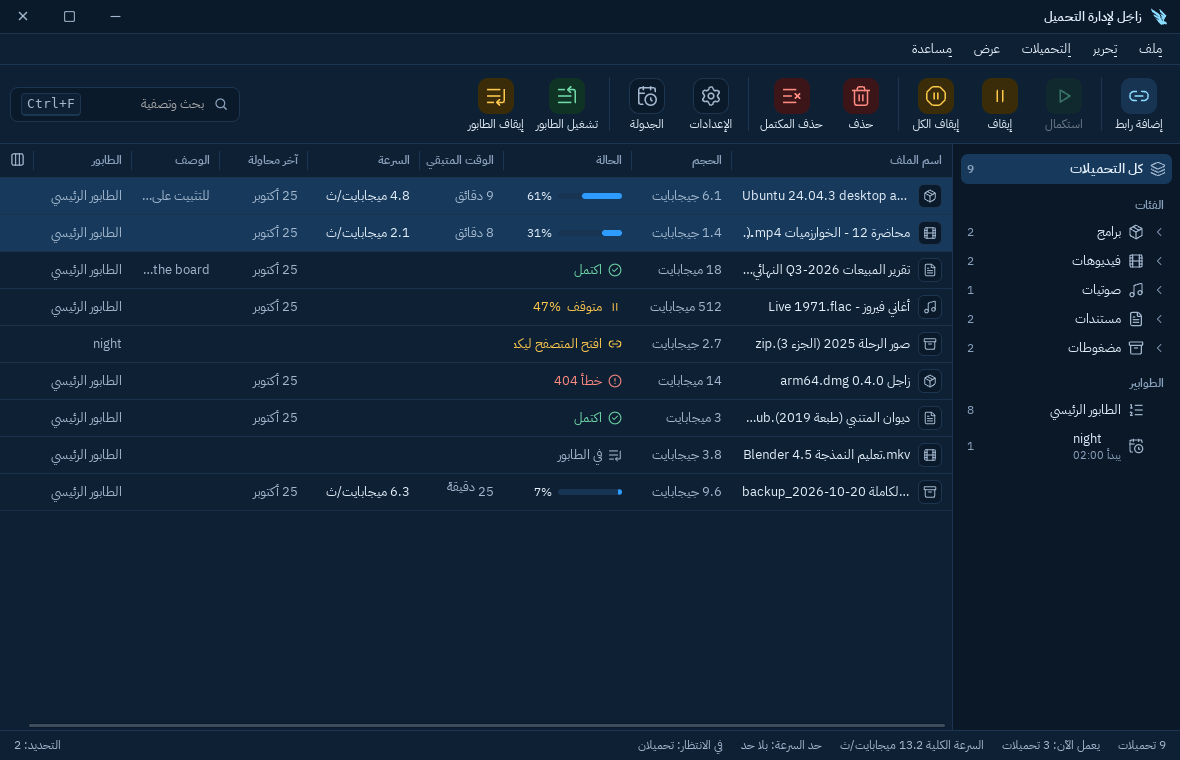
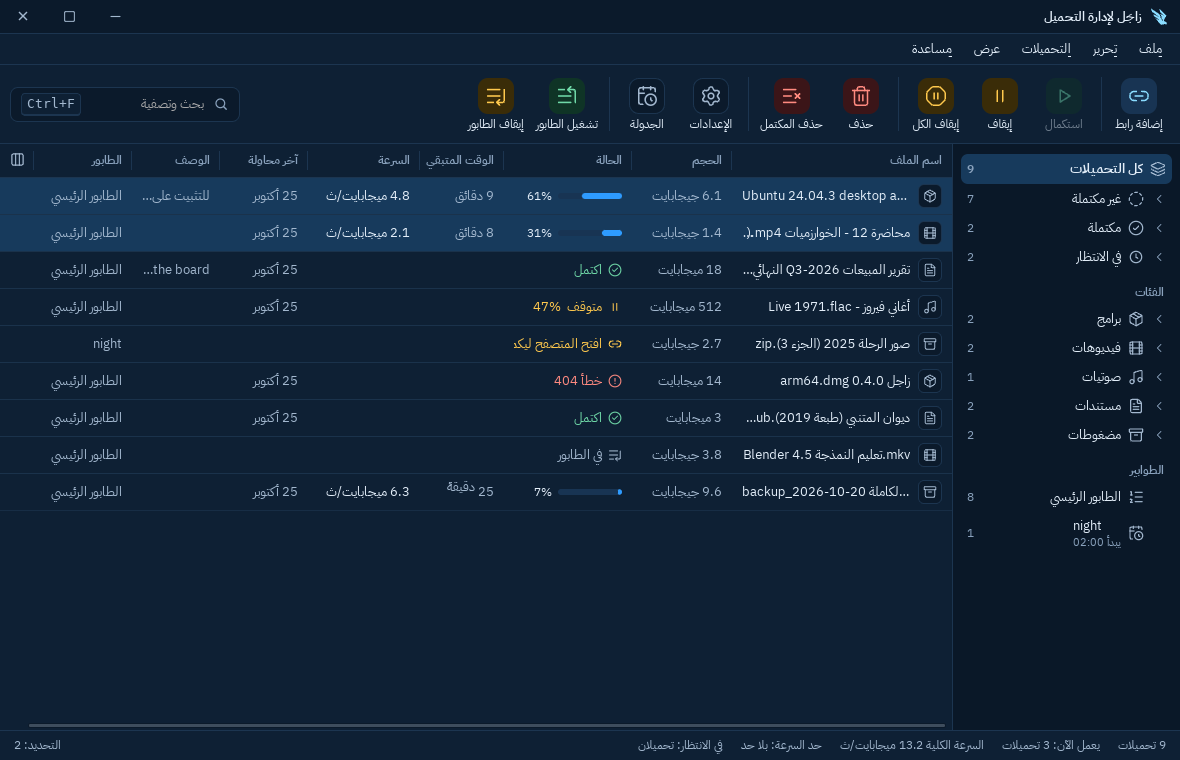
docs(release): Zajil 1.0.0 again, after the first draft was tried (#282)

Changed region(s): [[0.8847, 0.2421, 0.9763, 0.7263]]

diff --git a/docs/releases/v1.0.0.md b/docs/releases/v1.0.0.md
@@ -8,7 +8,7 @@
 
 ## صور
 
-صور حقيقية من الـ CI (بيانات تجريبية فقط):
+صور حقيقية من الـ CI، وصورة زر الفيديو من Chrome حقيقي بسكريبت الإضافة نفسه على صفحة تجريبية محلية (بيانات تجريبية فقط):
 
 | النافذة الرئيسية (فاتح) | النافذة الرئيسية (داكن) |
 |---|---|
@@ -16,7 +16,7 @@
 | **نافذة التقدم بالأجزاء** | **نافذة «جودة الفيديو»** |
 | ![نافذة التقدم: الأجزاء والاتصالات](https://raw.githubusercontent.com/motalim-ai/zajil-download-manager/v1.0.0/docs/screenshots/progress-ar.png) | ![نافذة جودة الفيديو: الجودات والحجم واسم الملف](https://raw.githubusercontent.com/motalim-ai/zajil-download-manager/v1.0.0/docs/screenshots/video-quality-ar.png) |
 | **«معلومات ملف التحميل»** | **زر «نزّل الفيديو» فوق الفيديو (الإضافة)** |
-| ![نافذة معلومات ملف التحميل: الاسم والحجم والمجلد](https://raw.githubusercontent.com/motalim-ai/zajil-download-manager/v1.0.0/docs/screenshots/file-info-ar.png) | ![زر نزّل الفيديو فوق فيديو تجريبي في المتصفح](https://raw.githubusercontent.com/motalim-ai/zajil-download-manager/v1.0.0/docs/screenshots/video-button-ar.png) |
+| ![نافذة معلومات ملف التحميل الصغيرة: الرابط والفئة والاسم والمجلد](https://raw.githubusercontent.com/motalim-ai/zajil-download-manager/v1.0.0/docs/screenshots/file-info-ar.png) | ![زر نزّل الفيديو أعلى يمين فيديو تجريبي في المتصفح، ومعه علامة زاجِل](https://raw.githubusercontent.com/motalim-ai/zajil-download-manager/v1.0.0/docs/screenshots/video-button-ar.png) |
 | **«تحميل الموقع»** | **«تحميل بالجملة»** |
 | ![نافذة تحميل الموقع: الحدود، والملفات التي وُجدت قبل إضافتها، والمجلد](https://raw.githubusercontent.com/motalim-ai/zajil-download-manager/v1.0.0/docs/screenshots/grab-ar.png) | ![نافذة التحميل بالجملة: النمط والروابط قبل إضافتها](https://raw.githubusercontent.com/motalim-ai/zajil-download-manager/v1.0.0/docs/screenshots/batch-ar.png) |
 
@@ -24,19 +24,25 @@
 
 - **التحميل:** حتى 32 اتصالًا للملف الواحد، وتقسيم أبطأ جزء حين يفرغ اتصال، والاستكمال بعد الانقطاع أو إغلاق البرنامج، وإعادة المحاولة بانتظار يكبر، واحترام `Retry-After`. والإيقاف فوري، ولا يضيع منه شيء. وHTTPS بالتحقق الكامل من الشهادات دائمًا.
 - **الواجهة بالعربية أولًا** (ومعها الإنجليزية)، من اليمين إلى اليسار، بالوضع الفاتح والداكن:
-  - نافذة رئيسية فيها شجرة جانبية (الفئات والطوابير)، وجدول بأعمدة تُخفى وتُظهر ويتغير ترتيبها، وقائمة الزر الأيمن، وبحث، واختصارات لكل زر.
-  - نافذة «إضافة رابط»، ثم «معلومات ملف التحميل» بأزرار «ابدأ التحميل» و«نزّل لاحقًا».
-  - نافذة تقدم لكل تحميل، فيها الأجزاء والاتصالات وحد السرعة وما بعد الانتهاء، ونافذة «اكتمل التحميل» بـ «افتح» و«افتح المجلد».
+  - نافذة رئيسية فيها شجرة جانبية: «كل التحميلات» وتحتها «غير مكتملة» و«مكتملة» و«في الانتظار»، لكل منها فئاته، ثم الطوابير. وجدول بأعمدة تُخفى وتُظهر ويتغير ترتيبها، وقائمة الزر الأيمن، وبحث، واختصارات لكل زر.
+  - نافذة «إضافة رابط»، ثم «معلومات ملف التحميل» الصغيرة كما في IDM، بأزرار «ابدأ التحميل» و«نزّل لاحقًا». والتحميل القادم من المتصفح يفتح «معلومات ملف التحميل» الخاصة به أيضًا.
+  - نافذة تقدم لكل تحميل، فيها الأجزاء والاتصالات وحد السرعة (يُطبَّق فور تغييره) وما بعد الانتهاء، وتحتفظ بالارتفاع الذي تختاره. ونافذة «اكتمل التحميل» بـ «افتح» و«افتح المجلد».
   - «تحديث الرابط» حين ينتهي رابط تحميل.
   - إغلاق النافذة يخفيها في شريط النظام، والخروج يسأل أولًا إن كانت تحميلات تعمل.
 - **الطوابير والجدولة:** نافذة «الجدولة» (Ctrl+J، أو ⌘J في ماك): موعد البدء بالساعة والأيام، وموعد الإيقاف، وعدد التحميلات في الوقت نفسه، وعدد المحاولات، وما يحدث بعد انتهاء الطابور (لا شيء، أو إغلاق الجهاز، أو إسباته، أو فتح ملف أو برنامج).
 - **حد السرعة** للبرنامج كله ولكل تحميل، و**عدد الاتصالات لكل موقع** يشترك فيه كل تحميلاته.
 - **التصنيفات** حسب نوع الملف والموقع، ولكل تصنيف مجلده. وتصدير الطوابير واستيرادها.
-- **الفيديو:** نافذة «جودة الفيديو» تعرض الجودات بحجمها، و«صوت فقط»، وقوائم التشغيل. ويدعم يوتيوب. والأدوات (yt-dlp وFFmpeg وQuickJS-NG) تُنزَّل مرة واحدة وبموافقتك، وزاجِل يتحقق من بصمة كل منها قبل كل تشغيل. والفيديو المحمي بـ DRM لا يُحمَّل، وزاجِل يقول ذلك صراحة.
+- **الفيديو:** نافذة «جودة الفيديو» تعرض الجودات بحجمها، و«صوت فقط»، وقوائم التشغيل، وتبقى في المقدمة ويمكن إلغاؤها. والاختيار الافتراضي ملف MP4 حين تعطي الصفحة H.264، وإلا فأعلى صورة مع صوت AAC. وفيديوهات قائمة التشغيل المختارة تدخل القائمة فورًا وتُحمَّل بالدور. ويدعم يوتيوب. ورسائل الخطأ بلغتك، وكلام yt-dlp نفسه تحت «التفاصيل».
+- **أدوات الفيديو** (yt-dlp وFFmpeg وQuickJS-NG) تُنزَّل مرة واحدة وبموافقتك، وزاجِل يتحقق من بصمة كل منها قبل كل تشغيل. وyt-dlp على ماك وويندوز هو ملف zip الرسمي، يُفك مرة واحدة ثم يُفحص كاملًا قبل كل تشغيل، فيبدأ أسرع: على ماك صار جزءًا من الثانية بعد أن كان من 14 إلى 21 ثانية، وفي الـ CI كان أسرع بمرتين إلى ثلاث على الأنظمة كلها. وفي آخر تجهيز الأدوات يُشغَّل مرة واحدة بلا شبكة، فيمر فحص النظام الأول قبل أول فيديو. ومن كانت عنده النسخة الأقدم تُحدَّث وحدها. وفي ويندوز لا تظهر نافذة طرفية. والفيديو المحمي بـ DRM لا يُحمَّل، وزاجِل يقول ذلك صراحة.
 - **تحميل الموقع** (من قائمة «ملف» ← «تحميل موقع…»): صفحة البداية، والعمق، وأنواع الملفات، والحدود. «افحص» يقرأ الموقع دون تنزيل أي ملف، ويعرض ما وجده لتختار منه، ثم يضعه في طابور للموقع وحده، بتحميل واحد في الوقت نفسه واتصال واحد لكل ملف. يحترم `robots.txt` دائمًا، ويطلب صفحة واحدة في الثانية، ولا يطلب أبدًا عنوانًا محليًا أو خاصًا.
 - **التحميل بالجملة** (من قائمة «ملف» ← «تحميل بالجملة…»، أو من سلة الإسقاط): رابط بنجمة مكان الجزء الذي يتغيّر، مثل `https://example.com/img*.jpg`، و«من» و«إلى» بالأرقام أو الحروف، وعدد الخانات. ترى الروابط قبل إضافتها.
 - **سلة الإسقاط:** مربع صغير عائم فوق كل النوافذ، اسحب إليه رابطًا من المتصفح.
-- **إضافة المتصفح** لـ Chrome وEdge وFirefox: «حمّل بزاجِل» و«حمّل الفيديو بزاجِل» من قائمة الزر الأيمن، والتقاط التحميلات، وزر «نزّل الفيديو» فوق الفيديو، ومفاتيح مع النقر (مطفأة افتراضيًا). وإذن «اسمح لزاجِل بالمواقع» اختياري يُطلب مرة واحدة، لكوكيز الموقع (في الذاكرة فقط) وزر الفيديو. وفي لينكس تعمل مع الـ `.deb` والـ AppImage.
+- **إضافة المتصفح** لـ Chrome وEdge وFirefox:
+  - «حمّل بزاجِل» و«حمّل الفيديو بزاجِل» من قائمة الزر الأيمن، ومفاتيح مع النقر (مطفأة افتراضيًا).
+  - **التقاط التحميلات** حسب أنواع كثيرة كما في IDM (ومنها أجزاء RAR من `r00` إلى `r19`)، **و«خذ أيضًا أي ملف أكبر من 5 ميجابايت»**، مفعّل من البداية، أيًّا كان نوعه، حين يعرف المتصفح حجمه. **انتبه:** هذا الخيار يعمل حتى للأنواع التي أزلتها من القائمة. فإن أزلت `pdf` مثلًا ليبقى في المتصفح، فملف PDF أكبر من 5 ميجابايت يذهب إلى زاجِل، إلا إذا أطفأت الخيار أو رفعت حجمه من إعدادات الإضافة. والمواقع المستثناة تبقى في المتصفح دائمًا.
+  - في Chrome وEdge لا يظهر التحميل في شريط تحميلات المتصفح وهو يذهب إلى زاجِل.
+  - زر «نزّل الفيديو» **أعلى يمين الفيديو** كما في IDM، ومعه علامة زاجِل، **وبلغة زاجِل** لا لغة المتصفح (ولغة المتصفح فقط إن لم يصل المتصفح إلى زاجِل)، ولا يظهر قبل أن تصل نصوصه. وبعد الضغط يبقى ويقول إنه يعمل حتى يرد زاجِل، ويقول السبب إن لم يأخذ زاجِل الفيديو. وفي يوتيوب يظهر في صفحات الفيديو وShorts والبث والمشغّل المضمَّن فقط.
+  - وإذن «اسمح لزاجِل بالمواقع» اختياري يُطلب مرة واحدة، لكوكيز الموقع (في الذاكرة فقط) وزر الفيديو. وفي لينكس تعمل مع الـ `.deb` والـ AppImage.
 - **الأمان:** البرامج والمثبّتات والسكربتات وملفات Office ذات الماكرو القادمة من المتصفح تنتظر موافقتك قبل تحميلها، وكل ملف يُحمَّل يحمل علامة النظام «من الإنترنت».
 - **وغير ذلك:** مراقبة الحافظة (مطفأة افتراضيًا)، وأيقونة في شريط النظام تقول ما يعمل وسرعته، وإشعارات وأصوات، والتشغيل مع بدء النظام.
 - **سطر الأوامر** (`zajil`، بالإنجليزية): `get` و`resume` و`queue` و`category` و`video` و`grab` و`batch`. ويُثبَّت بجانب البرنامج.
@@ -50,7 +56,7 @@
 
 - **زاجِل:** GPL-3.0-or-later. ونص الترخيص وإشعارات الأدوات داخل كل مثبّت (`LICENSE` و`THIRD-PARTY-NOTICES.md` و`LGPL-2.1.txt`).
 - **FFmpeg** 8.1.3، بترخيص LGPL 2.1 أو أحدث، من بناء زاجِل الخاص. This software uses code of FFmpeg licensed under the LGPLv2.1 and its source can be downloaded [here](https://github.com/motalim-ai/zajil-download-manager/releases/tag/tools-ffmpeg-8.1.3-1).
-- **yt-dlp** 2026.10.21: الملف الذي ينزّله زاجِل ترخيصه GPLv3+ (والكود المصدري بترخيص Unlicense). صفحة إصداره: [yt-dlp 2026.10.21](https://github.com/yt-dlp/yt-dlp/releases/tag/2026.10.21).
+- **yt-dlp** 2026.10.21: ما ينزّله زاجِل (ملف zip الرسمي على ماك وويندوز، والملف المستقل على لينكس) ترخيصه GPLv3+ (والكود المصدري بترخيص Unlicense). صفحة إصداره: [yt-dlp 2026.10.21](https://github.com/yt-dlp/yt-dlp/releases/tag/2026.10.21).
 - **QuickJS-NG** v0.17.0، بترخيص MIT. صفحة إصداره: [QuickJS-NG v0.17.0](https://github.com/quickjs-ng/quickjs/releases/tag/v0.17.0).
 - زاجِل لا يملك هذه الأدوات، وهي لأصحابها. ولا تأتي داخل المثبّت: تُنزَّل عند أول تحميل فيديو بموافقتك.
 
@@ -121,15 +127,39 @@
 
 ## ما لم يُجرَّب يدويًا بعد
 
-الـ CI يبني كل مثبّت ويجرّبه على نظامه: التثبيت، ووجود `zajil-host` و`zajil` بجانب البرنامج، وتشغيل `zajil --version`، والإزالة. ويشغّل البرنامج نفسه ونوافذه ويصوّرها على الأنظمة الثلاثة، ويختبر المحرك والإضافة والفيديو على سيرفرات محلية. أما يدويًا، على أجهزة حقيقية:
+الـ CI يبني كل مثبّت ويجرّبه على نظامه: التثبيت، ووجود `zajil-host` و`zajil` و`zajil-jsbox` بجانب البرنامج، وتشغيل `zajil --version`، وتشغيل `zajil-jsbox` المثبّت عبر QuickJS-NG المثبّت (به يحل yt-dlp تحديات يوتيوب)، والإزالة. ويثبّت ملف zip الخاص بـ yt-dlp بكود زاجِل نفسه ويشغّله على ماك وويندوز. ويشغّل البرنامج نفسه ونوافذه ويصوّرها على الأنظمة الثلاثة، ويختبر المحرك والإضافة والفيديو على سيرفرات محلية. أما يدويًا، على أجهزة حقيقية:
 
-- **لم يُجرَّب 1.0 يدويًا على أي نظام بعد،** وفيه تغييرات بعد 0.2 على ماك أيضًا. وسيناريو التجربة على ماك ([MANUAL-TEST-0.2-MAC](https://github.com/motalim-ai/zajil-download-manager/blob/v1.0.0/docs/MANUAL-TEST-0.2-MAC.md)) لم تُسجَّل نتيجته بعد.
+- **جُرِّبت المسودة الأولى من 1.0 يدويًا على ماك وويندوز،** وظهرت فيها مشكلات في الفيديو والإضافة والنوافذ، وأُصلحت (انظر «ما تغيّر بعد تجربة المسودة الأولى»). **أما هذه الإصلاحات فلم تُجرَّب يدويًا بعد،** ولا لينكس. وسيناريو التجربة على ماك ([MANUAL-TEST-0.2-MAC](https://github.com/motalim-ai/zajil-download-manager/blob/v1.0.0/docs/MANUAL-TEST-0.2-MAC.md)) لم تُسجَّل نتيجته بعد.
 - **الإضافة مع المتصفحات الحقيقية** (Chrome وEdge وFirefox): بعض الاختبارات اليدوية ما زالت قائمة ([#85](https://github.com/motalim-ai/zajil-download-manager/issues/85)).
 - **إطفاء الجهاز وإسباته بعد طابور:** مختبر بمحاكاة فقط ([#34](https://github.com/motalim-ai/zajil-download-manager/issues/34)).
 - **الفيديو من الإنترنت:** اختبارات الـ CI تشغّل yt-dlp وffmpeg الحقيقيين على ملفات تصنعها هي على سيرفر محلي (MP4 وHLS وDASH وصوت فقط وDRM)، ولا تصل إلى الإنترنت. فتنزيل الأدوات من GitHub، وتحميل فيديو من موقع حقيقي (ومنه يوتيوب)، لم يُجرَّبا يدويًا بعد.
 - **تحميل الموقع** على مواقع حقيقية: مختبر على مواقع محلية فقط.
 - **أقراص وشبكات حقيقية:** فلاشات FAT32 وexFAT (الـ CI يختبر صور أقراص)، ومجلدات الشبكة (SMB)، وانقطاع الكهرباء أثناء التحميل.
 - القائمة كاملة وخطواتها في [MANUAL-TESTS](https://github.com/motalim-ai/zajil-download-manager/blob/v1.0.0/docs/MANUAL-TESTS.md). وإن جرّبت شيئًا منها، أخبرنا بالنتيجة في [Issues](https://github.com/motalim-ai/zajil-download-manager/issues).
+
+## ما تغيّر بعد تجربة المسودة الأولى
+
+بُنيت لـ 1.0 مسودة أولى لم تُنشر، وجُرِّبت يدويًا على ماك وويندوز. وهذا ما أُصلح بعدها، قبل هذا الإصدار:
+
+- **الفيديو:**
+  - في ويندوز كانت نافذة طرفية تظهر مع كل فيديو ([#251](https://github.com/motalim-ai/zajil-download-manager/pull/251)).
+  - كان yt-dlp يحتاج من 14 إلى 21 ثانية ليبدأ على ماك في كل مرة، فصار ملف zip الرسمي يُفك مرة واحدة ([#278](https://github.com/motalim-ai/zajil-download-manager/pull/278)). وإن لم يبدأ بعد تنزيله، يقول زاجِل ذلك بدل أن يقول إن الأدوات جاهزة ([#280](https://github.com/motalim-ai/zajil-download-manager/pull/280)).
+  - على ماك، حين كان المتصفح يفتح زاجِل، كانت ملفات زاجِل وyt-dlp تحمل علامة quarantine التي على Chrome، فرفض Gatekeeper ملف Python.framework على أنه «تالف». صار المتصفح يفتح زاجِل عبر LaunchServices، وتُزال العلامة عن أدوات الفيديو بعد التحقق من بصمتها، حتى عن أداة فُكّت معلَّمة من قبل. أما تحميلاتك فتبقى عليها علامة «من الإنترنت» ([#283](https://github.com/motalim-ai/zajil-download-manager/pull/283)).
+  - `zajil-jsbox` لم يكن داخل المثبّتات، فكان يوتيوب يفشل لمن سجّل دخوله إلى يوتيوب وليس عنده Deno أو Node ([#252](https://github.com/motalim-ai/zajil-download-manager/pull/252)).
+  - صفحة لا تعطي أي جودة مع كوكيزها يُسأل عنها بلاها ([#254](https://github.com/motalim-ai/zajil-download-manager/pull/254))، ورابط الفيديو نفسه يُطلب حين لا يقرأ yt-dlp صفحته، وفيديو النافذة الخاصة لا يُكتب أبدًا ([#268](https://github.com/motalim-ai/zajil-download-manager/pull/268)).
+  - رسائل الخطأ بلغتك ([#260](https://github.com/motalim-ai/zajil-download-manager/pull/260))، وللملف امتداد واحد ([#262](https://github.com/motalim-ai/zajil-download-manager/pull/262))، ويُحسب تقدم الدمج كاملًا والافتراضي MP4 ([#267](https://github.com/motalim-ai/zajil-download-manager/pull/267)).
+  - فيديوهات قائمة التشغيل المختارة تدخل القائمة فورًا وتُحمَّل بالدور ([#266](https://github.com/motalim-ai/zajil-download-manager/pull/266))، و«جودة الفيديو» تبقى في المقدمة ويمكن إلغاؤها ([#277](https://github.com/motalim-ai/zajil-download-manager/pull/277)).
+- **الإضافة:**
+  - التحميل لا يظهر في شريط Chrome وEdge ([#253](https://github.com/motalim-ai/zajil-download-manager/pull/253)).
+  - أنواع أكثر، وخيار «أكبر من 5 ميجابايت» ([#256](https://github.com/motalim-ai/zajil-download-manager/pull/256))، وبلا `ts` لأنه امتداد ملفات TypeScript أيضًا ([#276](https://github.com/motalim-ai/zajil-download-manager/pull/276)).
+  - زر الفيديو كما في IDM ([#261](https://github.com/motalim-ai/zajil-download-manager/pull/261))، ولا يظهر قبل أن تصل نصوصه بلغة زاجِل ([#280](https://github.com/motalim-ai/zajil-download-manager/pull/280)).
+  - حين لا يصل المتصفح إلى زاجِل، يقول زر الفيديو وإشعار «حمّل الفيديو بزاجِل» السبب بلغة زاجِل، بلا مسار من الجهاز ([#280](https://github.com/motalim-ai/zajil-download-manager/pull/280)).
+- **النوافذ:**
+  - التحميل القادم من المتصفح يفتح «معلومات ملف التحميل» ([#255](https://github.com/motalim-ai/zajil-download-manager/pull/255))، وهي أصغر كما في IDM ([#257](https://github.com/motalim-ai/zajil-download-manager/pull/257)).
+  - «غير مكتملة» و«مكتملة» و«في الانتظار» في الشجرة ([#273](https://github.com/motalim-ai/zajil-download-manager/pull/273)).
+  - نافذة التقدم تحتفظ بارتفاعها ([#270](https://github.com/motalim-ai/zajil-download-manager/pull/270))، وحد السرعة يُطبَّق فور تغييره ([#271](https://github.com/motalim-ai/zajil-download-manager/pull/271)).
+
+القائمة كاملة في [CHANGELOG](https://github.com/motalim-ai/zajil-download-manager/blob/v1.0.0/CHANGELOG.md).
 
 ## ما الذي يأتي بعد ذلك
 
@@ -148,7 +178,7 @@ This is Zajil's first published release (0.2.0 was a test draft that was never p
 
 ## Screenshots
 
-Real screenshots from CI (test data only):
+Real screenshots from CI, and the video button's from a real Chrome running the extension's own script on a local test page (test data only):
 
 | Main window (light) | Main window (dark) |
 |---|---|
@@ -156,7 +186,7 @@ Real screenshots from CI (test data only):
 | **The progress window with its parts** | **The «Video quality» window** |
 | ![The progress window: its parts and connections](https://raw.githubusercontent.com/motalim-ai/zajil-download-manager/v1.0.0/docs/screenshots/progress-ar.png) | ![The Video quality window: the formats, their size and the file name](https://raw.githubusercontent.com/motalim-ai/zajil-download-manager/v1.0.0/docs/screenshots/video-quality-ar.png) |
 | **«Download file info»** | **The «Download video» button over a video (the extension)** |
-| ![The Download file info window: the name, the size and the folder](https://raw.githubusercontent.com/motalim-ai/zajil-download-manager/v1.0.0/docs/screenshots/file-info-ar.png) | ![The Download video button over a test video in the browser](https://raw.githubusercontent.com/motalim-ai/zajil-download-manager/v1.0.0/docs/screenshots/video-button-ar.png) |
+| ![The small Download file info window: the link, the category, the name and the folder](https://raw.githubusercontent.com/motalim-ai/zajil-download-manager/v1.0.0/docs/screenshots/file-info-ar.png) | ![The Download video button at the top right of a test video in the browser, with Zajil's mark](https://raw.githubusercontent.com/motalim-ai/zajil-download-manager/v1.0.0/docs/screenshots/video-button-ar.png) |
 | **«Site grabber»** | **«Batch download»** |
 | ![The Site grabber window: the limits, the files found before they are added, and the folder](https://raw.githubusercontent.com/motalim-ai/zajil-download-manager/v1.0.0/docs/screenshots/grab-ar.png) | ![The Batch download window: the pattern and the links before they are added](https://raw.githubusercontent.com/motalim-ai/zajil-download-manager/v1.0.0/docs/screenshots/batch-ar.png) |
 
@@ -164,19 +194,25 @@ Real screenshots from CI (test data only):
 
 - **Downloads:** up to 32 connections per file, splitting the slowest part when a connection is free, resume after a cut or a restart, retries with growing waits, `Retry-After` respected. Stopping is immediate and loses nothing. HTTPS always with full certificate checks.
 - **Arabic-first interface** (and English), right to left, light and dark:
-  - a main window with a side tree (categories and queues), a table whose columns can be hidden, shown and reordered, a right-click menu, search, and a shortcut for every button;
-  - the «Add a link» window, then «Download file info» with «Start download» and «Download later»;
-  - a progress window for each download, with its parts, connections, speed limit and what to do when done, and a «Download complete» window with «Open» and «Open folder»;
+  - a main window with a side tree: «All downloads» with «Unfinished», «Finished» and «Waiting» under it, each with its categories, then the queues; a table whose columns can be hidden, shown and reordered, a right-click menu, search, and a shortcut for every button;
+  - the «Add a link» window, then the small «Download file info», as in IDM, with «Start download» and «Download later»; a download from the browser opens its own «Download file info» too;
+  - a progress window for each download, with its parts, connections, speed limit (applied as soon as it changes) and what to do when done, which keeps the height you give it, and a «Download complete» window with «Open» and «Open folder»;
   - «Refresh link» when a download link expires;
   - closing the window hides it in the tray, and quitting asks first while downloads are running.
 - **Queues and scheduling:** the «Schedule» window (Ctrl+J, or ⌘J on macOS): a start time and days, a stop time, downloads at the same time, tries, and what happens when the queue is done (nothing, shut down, sleep, or open a file or program).
 - **Speed limits** for the whole program and for each download, and **connections per site**, shared by all of a site's downloads.
 - **Categories** by file type and site, each with its folder. Export and import of queues.
-- **Video:** the «Video quality» window lists the formats with their size, «audio only», and playlists. YouTube is supported. The tools (yt-dlp, FFmpeg and QuickJS-NG) are downloaded once, with your OK, and Zajil checks each one's fingerprint before every run. Video protected by DRM is not downloaded, and Zajil says so plainly.
+- **Video:** the «Video quality» window lists the formats with their size, «Sound only», and playlists; it stays in front and can be cancelled. The default is an MP4 file when the page has H.264, else the highest picture with AAC sound. A playlist's chosen videos join the list at once and download in turn. YouTube is supported. Errors are in your language, with yt-dlp's own words under «Details».
+- **The video tools** (yt-dlp, FFmpeg and QuickJS-NG) are downloaded once, with your OK, and Zajil checks each one's fingerprint before every run. On macOS and Windows yt-dlp is its official zip, unpacked once and then checked whole before every run, so it starts faster: on a Mac a fraction of a second where it took 14 to 21 seconds, and two to three times faster on every system in CI. At the end of preparing the tools it runs once with no network, so the system's first check is done before the first video. An earlier yt-dlp is brought up to date on its own. On Windows no console window opens. Video protected by DRM is not downloaded, and Zajil says so plainly.
 - **Site grabber** (File → «Site grabber…»): the start page, the depth, the file types and the limits. «Check» reads the site without downloading any file and lists what it found for you to choose from, then puts it in a queue of the site's own, one download at a time and one connection per file. It always respects `robots.txt`, asks one request a second, and never asks a local or private address.
 - **Batch download** (File → «Batch download…», or from the drop box): a link with a star where it changes, such as `https://example.com/img*.jpg`, «From» and «To» in numbers or letters, and the digits. You see the links before they are added.
 - **The drop box:** a small box floating above all windows; drop a link from the browser on it.
-- **Browser extension** for Chrome, Edge and Firefox: «Download with Zajil» and «Download video with Zajil» in the right-click menu, download capture, a «Download video» button over the video, and keys with a click (off by default). «Allow Zajil on sites» is an optional permission asked once, for the site's cookies (kept in memory only) and the video button. On Linux it works with both the `.deb` and the AppImage.
+- **Browser extension** for Chrome, Edge and Firefox:
+  - «Download with Zajil» and «Download video with Zajil» in the right-click menu, and keys with a click (off by default).
+  - **Download capture** by many types, as in IDM (split RAR parts `r00` to `r19` among them), **and «Also take any file larger than 5 MB»**, on from the start, whatever its type, when the browser knows its size. **Mind:** this option works even for the types you removed from the list. If you removed `pdf`, say, to keep PDFs in the browser, a PDF larger than 5 MB still goes to Zajil, unless you turn the option off or raise its size in the extension's settings. Excluded sites always stay in the browser.
+  - In Chrome and Edge a download going to Zajil does not show in the browser's download bar.
+  - The «Download video» button sits **at the video's top right**, as in IDM, with Zajil's mark, **in Zajil's language** rather than the browser's (the browser's only when the browser cannot reach Zajil), and it shows only once its texts have come. Pressed, it stays and says it is working until Zajil answers, and says why if Zajil did not take the video. On YouTube it shows on video pages, Shorts, live streams and embedded players only.
+  - «Allow Zajil on sites» is an optional permission asked once, for the site's cookies (kept in memory only) and the video button. On Linux it works with both the `.deb` and the AppImage.
 - **Safety:** programs, installers, scripts and Office files with macros that come from the browser wait for your OK before they download, and every downloaded file carries the system's "from the internet" mark.
 - **Besides:** clipboard monitoring (off by default), a tray icon that tells what runs and how fast, notifications and sounds, start with the system.
 - **Command line** (`zajil`): `get`, `resume`, `queue`, `category`, `video`, `grab` and `batch`. It is installed next to the program.
@@ -190,7 +226,7 @@ Real screenshots from CI (test data only):
 
 - **Zajil:** GPL-3.0-or-later. The licence text and the tools' notices are in every installer (`LICENSE`, `THIRD-PARTY-NOTICES.md` and `LGPL-2.1.txt`).
 - **FFmpeg** 8.1.3, under LGPL 2.1 or later, Zajil's own build. This software uses code of FFmpeg licensed under the LGPLv2.1 and its source can be downloaded [here](https://github.com/motalim-ai/zajil-download-manager/releases/tag/tools-ffmpeg-8.1.3-1).
-- **yt-dlp** 2026.10.21: the file Zajil downloads is under GPLv3+ (its source code: the Unlicense). Its release page: [yt-dlp 2026.10.21](https://github.com/yt-dlp/yt-dlp/releases/tag/2026.10.21).
+- **yt-dlp** 2026.10.21: what Zajil downloads (the official zip on macOS and Windows, the one-file build on Linux) is under GPLv3+ (its source code: the Unlicense). Its release page: [yt-dlp 2026.10.21](https://github.com/yt-dlp/yt-dlp/releases/tag/2026.10.21).
 - **QuickJS-NG** v0.17.0, under the MIT licence. Its release page: [QuickJS-NG v0.17.0](https://github.com/quickjs-ng/quickjs/releases/tag/v0.17.0).
 - Zajil does not own these tools; they belong to their authors. They are not in the installer: they are downloaded on the first video download, with your OK.
 
@@ -261,15 +297,39 @@ Each line must end with `OK` (on Windows the command must print `True`). If not,
 
 ## Not tried by hand yet
 
-CI builds every installer and tries it on its own system: it installs, `zajil-host` and `zajil` are next to the program, `zajil --version` runs, and it uninstalls. It also starts the app with its windows and screenshots them on all three systems, and tests the engine, the extension and video against local servers. By hand, on real machines:
+CI builds every installer and tries it on its own system: it installs, `zajil-host`, `zajil` and `zajil-jsbox` are next to the program, `zajil --version` runs, the installed `zajil-jsbox` runs through the pinned QuickJS-NG (yt-dlp solves YouTube's challenges with it), and it uninstalls. On macOS and Windows it also installs yt-dlp's zip through Zajil's own code and runs it. It also starts the app with its windows and screenshots them on all three systems, and tests the engine, the extension and video against local servers. By hand, on real machines:
 
-- **1.0 has not been tried by hand on any system yet,** and it changes macOS code since 0.2 too. The macOS test scenario ([MANUAL-TEST-0.2-MAC](https://github.com/motalim-ai/zajil-download-manager/blob/v1.0.0/docs/MANUAL-TEST-0.2-MAC.md)) has no recorded result yet.
+- **The first draft of 1.0 was tried by hand on macOS and Windows,** and it showed problems in video, the extension and the windows, which were fixed (see «What changed after the first draft was tried»). **Those fixes have not been tried by hand yet,** nor has Linux. The macOS test scenario ([MANUAL-TEST-0.2-MAC](https://github.com/motalim-ai/zajil-download-manager/blob/v1.0.0/docs/MANUAL-TEST-0.2-MAC.md)) has no recorded result yet.
 - **The extension with real browsers** (Chrome, Edge, Firefox): some manual checks are still open ([#85](https://github.com/motalim-ai/zajil-download-manager/issues/85)).
 - **Shutting down or sleeping after a queue:** tested with a simulation only ([#34](https://github.com/motalim-ai/zajil-download-manager/issues/34)).
 - **Video from the internet:** CI runs the real yt-dlp and ffmpeg on files it makes itself on a local server (MP4, HLS, DASH, audio only and DRM), with no internet. So downloading the tools from GitHub, and downloading a video from a real site (YouTube among them), have not been tried by hand yet.
 - **The site grabber** on real sites: tested on local sites only.
 - **Real disks and networks:** FAT32 and exFAT flash drives (CI tests disk images), network folders (SMB), and a power cut during a download.
 - The full list, with its steps, is in [MANUAL-TESTS](https://github.com/motalim-ai/zajil-download-manager/blob/v1.0.0/docs/MANUAL-TESTS.md). If you try any of it, please tell us how it went in [Issues](https://github.com/motalim-ai/zajil-download-manager/issues).
+
+## What changed after the first draft was tried
+
+A first draft of 1.0 was built, never published, and tried by hand on macOS and Windows. This is what was fixed after it, before this release:
+
+- **Video:**
+  - On Windows a console window opened with every video ([#251](https://github.com/motalim-ai/zajil-download-manager/pull/251)).
+  - yt-dlp took 14 to 21 seconds to start on a Mac every time; its official zip is now unpacked once ([#278](https://github.com/motalim-ai/zajil-download-manager/pull/278)). If it does not start after its download, Zajil says so instead of saying the tools are ready ([#280](https://github.com/motalim-ai/zajil-download-manager/pull/280)).
+  - On macOS, when the browser started Zajil, Zajil's and yt-dlp's files carried Chrome's quarantine mark, and Gatekeeper refused Python.framework as "damaged". The browser now starts Zajil through LaunchServices, and the video tools lose the mark once their SHA-256 is checked, a tool unpacked marked before too. Your downloads keep their «from the internet» mark ([#283](https://github.com/motalim-ai/zajil-download-manager/pull/283)).
+  - `zajil-jsbox` was not in the installers, so YouTube failed for anyone signed in to YouTube without Deno or Node ([#252](https://github.com/motalim-ai/zajil-download-manager/pull/252)).
+  - A page with no format for its cookies is asked again without them ([#254](https://github.com/motalim-ai/zajil-download-manager/pull/254)); the video's own link is asked when yt-dlp cannot read its page, and a private window's video is never written down ([#268](https://github.com/motalim-ai/zajil-download-manager/pull/268)).
+  - Errors are in your language ([#260](https://github.com/motalim-ai/zajil-download-manager/pull/260)), a file gets one extension ([#262](https://github.com/motalim-ai/zajil-download-manager/pull/262)), a merge's progress adds up and the default is MP4 ([#267](https://github.com/motalim-ai/zajil-download-manager/pull/267)).
+  - A playlist's chosen videos join the list at once and download in turn ([#266](https://github.com/motalim-ai/zajil-download-manager/pull/266)), and «Video quality» stays in front and can be cancelled ([#277](https://github.com/motalim-ai/zajil-download-manager/pull/277)).
+- **The extension:**
+  - A download no longer shows in Chrome's and Edge's bar ([#253](https://github.com/motalim-ai/zajil-download-manager/pull/253)).
+  - More types, and «larger than 5 MB» ([#256](https://github.com/motalim-ai/zajil-download-manager/pull/256)), without `ts`, which TypeScript files have too ([#276](https://github.com/motalim-ai/zajil-download-manager/pull/276)).
+  - The video button as in IDM ([#261](https://github.com/motalim-ai/zajil-download-manager/pull/261)), shown only once its texts in Zajil's language have come ([#280](https://github.com/motalim-ai/zajil-download-manager/pull/280)).
+  - When the browser cannot reach Zajil, the video button and the «Download video with Zajil» notice say why in Zajil's language, with no path of the machine ([#280](https://github.com/motalim-ai/zajil-download-manager/pull/280)).
+- **Windows of the app:**
+  - A download from the browser opens «Download file info» ([#255](https://github.com/motalim-ai/zajil-download-manager/pull/255)), now small as in IDM ([#257](https://github.com/motalim-ai/zajil-download-manager/pull/257)).
+  - «Unfinished», «Finished» and «Waiting» in the tree ([#273](https://github.com/motalim-ai/zajil-download-manager/pull/273)).
+  - The progress window keeps its height ([#270](https://github.com/motalim-ai/zajil-download-manager/pull/270)), and a speed limit applies as soon as it changes ([#271](https://github.com/motalim-ai/zajil-download-manager/pull/271)).
+
+The full list is in the [CHANGELOG](https://github.com/motalim-ai/zajil-download-manager/blob/v1.0.0/CHANGELOG.md).
 
 ## Coming next
 

diff --git a/CHANGELOG.md b/CHANGELOG.md
@@ -9,7 +9,9 @@ The format follows [Keep a Changelog](https://keepachangelog.com/en/1.1.0/), and
 
 ## [1.0.0] - 2026-10-27
 
-The first published release: 0.2.0 was a test draft that was never published. Signed automatic updates come in 1.1 (owner's decision of 2026-10-26). This list is the titles of the pull requests merged after 0.2.0.
+The first published release: 0.2.0 was a test draft that was never published. Signed automatic updates come in 1.1 (owner's decision of 2026-10-26). A first 1.0.0 draft was tried by hand on macOS and Windows and never published; it and its tag were removed (owner's decision of 2026-10-27), and the fixes after it (#251 to #283) are here too. This list is the titles of the pull requests merged after 0.2.0.
+
+Mind: the extension's «Also take any file larger than 5 MB» (on from the start) works even for the types a user removed from the list (#263).
 
 ### Features
 
@@ -18,6 +20,9 @@ The first published release: 0.2.0 was a test draft that was never published. Si
 - feat(core): a queued download's own number of connections (#211) (#215)
 - feat(desktop): «Site grabber», as IDM's: check a site, choose its files, and queue them politely (#214)
 - feat(grab): each file refused over --max-total is counted as left out (#212) (#222)
+- feat(extension): more types by default, as IDM's, and any file larger than 5 MB goes to Zajil (#256)
+- feat(extension): the video button as IDM's: top right, Zajil's mark and language, working until Zajil answers, and only on YouTube's video pages (#261)
+- feat(video): yt-dlp's official zip on macOS and Windows, unpacked once, checked whole before every run, and started once offline after it is downloaded (#278)
 
 ### Fixes
 
@@ -36,6 +41,24 @@ The first published release: 0.2.0 was a test draft that was never published. Si
 - fix(desktop): on macOS, one Zajil per user through its own channel, not a socket in /tmp (#60) (#243)
 - fix(desktop): «Batch download» and «Site grabber» fit their window without a page scroll (#245)
 - fix(desktop): the start line says the release's version, not 0.0.0 (#248) (#250)
+- fix(platform): a tool Zajil starts on Windows opens no console window (#251)
+- fix(desktop): a download from the browser opens its own «Download file info», as in IDM (#255)
+- fix(desktop): a small «Download file info», as IDM's (#257)
+- fix(video): a page with no format for its cookies is asked again without them (#254)
+- fix(video): yt-dlp's failures are told in the user's language, its words under «Details» (#260)
+- fix(desktop): the progress window keeps the height the user gives it (#270)
+- fix(desktop): a speed limit applies as soon as it changes, with no «Save» (#271)
+- fix(video): a video's file gets one extension, yt-dlp's (#262)
+- fix(release): zajil-jsbox ships in every installer, and each check runs it through the pinned qjs (#252)
+- fix(extension): Chrome and Edge do not show a download while it goes to Zajil (#253)
+- fix(desktop): «Unfinished», «Finished» and «Waiting» under «All downloads», each with its categories (#273)
+- fix(video): a playlist's chosen videos join the list at once and download in turn (#266)
+- fix(video): a merge's progress adds up, and the default is an MP4 the window and the engine agree on (#267)
+- fix(video): the video's own link is asked when yt-dlp cannot read its page; a private window's video is never written down (#268)
+- fix(extension): ts is not a default type; a large video with it goes by its size (#276)
+- fix(desktop): «Video quality» stays in front, can be cancelled, and waits visibly in the main window (#277)
+- fix: zajil-host's own failures said in Zajil's language with no path, the video button only once Zajil's texts came, and yt-dlp's first run done only once it loaded its handlers (#280)
+- fix(macos): zajil-host starts Zajil through LaunchServices, and the video tools carry no quarantine mark (#283)
 
 ### Documentation
 
@@ -54,6 +77,7 @@ The first published release: 0.2.0 was a test draft that was never published. Si
 
 - ci: the GUI libraries come from the cache when it has them (#119) (#223)
 - ci(ffmpeg): no build for pins or README, a weekly run, cancel on PRs only, current comments (#173) (#228)
+- ci(release): the Linux GUI libraries in up to three tries, each with its own time limit (#265) (#269)
 
 ## [0.2.0] - 2026-10-26
 
